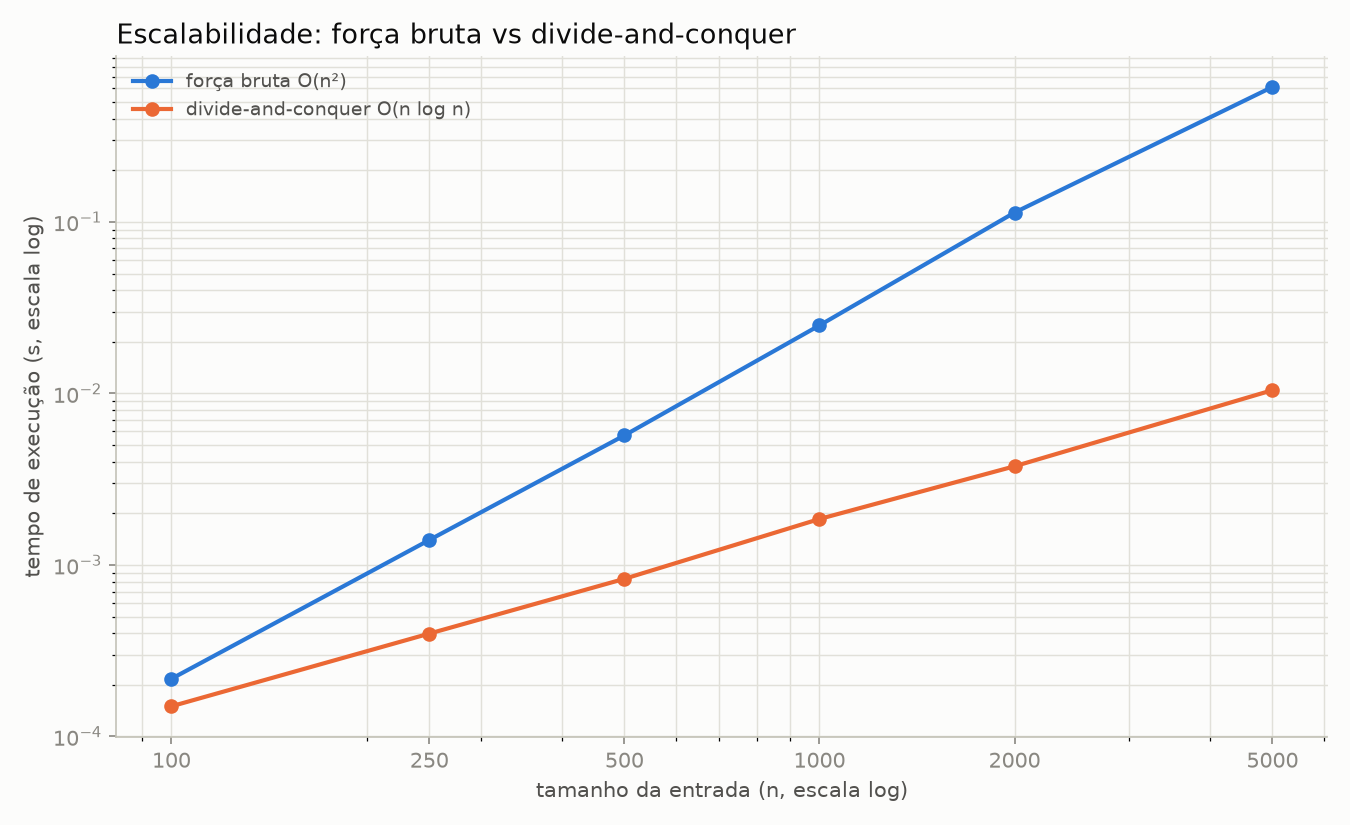
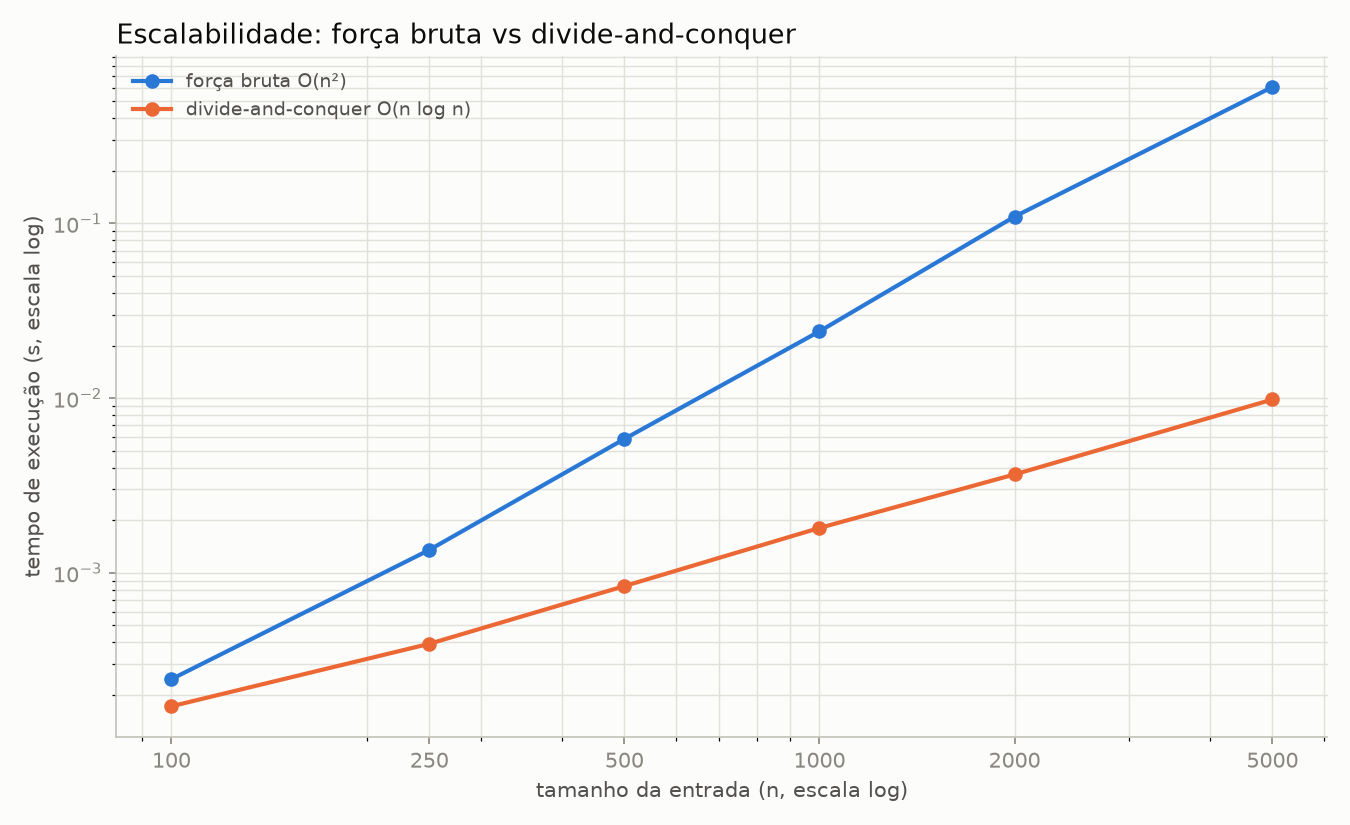
revisando docstrings, testando tudo e reexecutando o notebook

diff --git a/tests/test_questao2.py b/tests/test_questao2.py
@@ -1,0 +1,161 @@
+"""
+Testes da Questao 2 (gestao de consumo de energia): criticidade,
+estruturas de dados, forca bruta e divide-and-conquer.
+
+Usa leituras pequenas e feitas a mao pra cada resultado esperado ser
+facil de conferir na mao -- o dataset real (data/problema2.csv) so
+entra no teste de integracao no final, pra garantir que os dois
+algoritmos continuam concordando nele.
+"""
+
+import random
+
+import pytest
+
+from src.brute_force import buscar_intervalo_critico_forca_bruta
+from src.criticidade import calcular_criticidade
+from src.divide_conquer import buscar_intervalo_critico_divide_conquer
+from src.estruturas import (
+    agrupar_por_regiao,
+    agrupar_por_regiao_e_hora,
+    carregar_leituras,
+    maiores_picos_de_consumo,
+    regioes_existentes,
+)
+
+
+def leitura(consumo, capacidade=400.0, prioridade=1, regiao="Norte", timestamp="2025-01-01 00:00:00"):
+    return {
+        "timestamp": timestamp,
+        "regiao": regiao,
+        "consumo": consumo,
+        "capacidade_disponivel": capacidade,
+        "prioridade": prioridade,
+        "custo": 0.0,
+    }
+
+
+def leitura_com_criticidade(score, timestamp="2025-01-01 00:00:00"):
+    """
+    Monta uma leitura cuja criticidade da exatamente 'score'. Usa uma
+    capacidade bem alta (1000) pra nunca estourar -- assim
+    consumo_relativo = consumo - 750 e a penalidade de excesso fica
+    sempre zero, entao criticidade = consumo - 750. Basta escolher
+    consumo = score + 750.
+    """
+    return leitura(consumo=score + 750.0, capacidade=1000.0, prioridade=1, timestamp=timestamp)
+
+
+class TestCriticidade:
+    def test_leitura_dentro_do_limiar_seguro_fica_negativa(self):
+        # 200 de consumo numa capacidade de 400: bem abaixo dos 75% (300)
+        l = leitura(consumo=200.0, capacidade=400.0)
+        assert calcular_criticidade(l) < 0
+
+    def test_leitura_passando_da_capacidade_fica_positiva(self):
+        l = leitura(consumo=500.0, capacidade=400.0)
+        assert calcular_criticidade(l) > 0
+
+    def test_prioridade_maior_aumenta_a_penalidade_quando_ha_excesso(self):
+        prioridade_baixa = leitura(consumo=500.0, capacidade=400.0, prioridade=1)
+        prioridade_alta = leitura(consumo=500.0, capacidade=400.0, prioridade=3)
+        assert calcular_criticidade(prioridade_alta) > calcular_criticidade(prioridade_baixa)
+
+    def test_prioridade_nao_muda_nada_sem_excesso(self):
+        # a prioridade so multiplica a penalidade de excesso; sem excesso, ela e zero dos dois jeitos
+        prioridade_baixa = leitura(consumo=200.0, capacidade=400.0, prioridade=1)
+        prioridade_alta = leitura(consumo=200.0, capacidade=400.0, prioridade=3)
+        assert calcular_criticidade(prioridade_baixa) == calcular_criticidade(prioridade_alta)
+
+
+class TestEstruturas:
+    def _leituras_de_exemplo(self):
+        return [
+            leitura(300, 400, 1, "Norte", "2025-01-01 00:00:00"),
+            leitura(200, 300, 2, "Sul", "2025-01-01 00:00:00"),
+            leitura(500, 400, 1, "Norte", "2025-01-01 01:00:00"),
+        ]
+
+    def test_regioes_existentes_sem_repeticao(self):
+        assert regioes_existentes(self._leituras_de_exemplo()) == {"Norte", "Sul"}
+
+    def test_agrupar_por_regiao(self):
+        agrupado = agrupar_por_regiao(self._leituras_de_exemplo())
+        assert len(agrupado["Norte"]) == 2
+        assert len(agrupado["Sul"]) == 1
+
+    def test_agrupar_por_regiao_e_hora(self):
+        agrupado = agrupar_por_regiao_e_hora(self._leituras_de_exemplo())
+        assert agrupado[("Norte", 0)][0]["consumo"] == 300
+        assert agrupado[("Norte", 1)][0]["consumo"] == 500
+
+    def test_maiores_picos_de_consumo(self):
+        picos = maiores_picos_de_consumo(self._leituras_de_exemplo(), 2)
+        assert [p["consumo"] for p in picos] == [500, 300]
+
+    def test_maiores_picos_de_consumo_quantidade_invalida(self):
+        with pytest.raises(ValueError):
+            maiores_picos_de_consumo(self._leituras_de_exemplo(), 0)
+
+    def test_carregar_leituras_arquivo_inexistente(self):
+        with pytest.raises(FileNotFoundError):
+            carregar_leituras("data/isso_nao_existe.csv")
+
+
+# scores classicos de exemplo (subarray de soma maxima): a resposta
+# certa e o trecho [3,6] = 4-1+2+1 = 6
+SCORES_DE_EXEMPLO = [-2, 1, -3, 4, -1, 2, 1, -5, 4]
+
+
+class TestForcaBrutaEDivideConquer:
+    def _leituras_de_exemplo(self):
+        return [leitura_com_criticidade(score) for score in SCORES_DE_EXEMPLO]
+
+    @pytest.mark.parametrize(
+        "buscar_intervalo_critico",
+        [buscar_intervalo_critico_forca_bruta, buscar_intervalo_critico_divide_conquer],
+    )
+    def test_acha_o_intervalo_critico_certo(self, buscar_intervalo_critico):
+        inicio, fim, criticidade = buscar_intervalo_critico(self._leituras_de_exemplo())
+        assert (inicio, fim) == (3, 6)
+        assert criticidade == pytest.approx(6.0)
+
+    @pytest.mark.parametrize(
+        "buscar_intervalo_critico",
+        [buscar_intervalo_critico_forca_bruta, buscar_intervalo_critico_divide_conquer],
+    )
+    def test_lista_de_um_elemento(self, buscar_intervalo_critico):
+        inicio, fim, criticidade = buscar_intervalo_critico([leitura_com_criticidade(-5)])
+        assert (inicio, fim) == (0, 0)
+        assert criticidade == pytest.approx(-5.0)
+
+    @pytest.mark.parametrize(
+        "buscar_intervalo_critico",
+        [buscar_intervalo_critico_forca_bruta, buscar_intervalo_critico_divide_conquer],
+    )
+    def test_lista_vazia_levanta_erro(self, buscar_intervalo_critico):
+        with pytest.raises(ValueError):
+            buscar_intervalo_critico([])
+
+    def test_forca_bruta_e_divide_conquer_concordam_em_casos_aleatorios(self):
+        random.seed(7)
+        for _ in range(20):
+            tamanho = random.randint(1, 40)
+            scores = [random.uniform(-50, 50) for _ in range(tamanho)]
+            leituras = [leitura_com_criticidade(score) for score in scores]
+
+            resultado_fb = buscar_intervalo_critico_forca_bruta(leituras)
+            resultado_dc = buscar_intervalo_critico_divide_conquer(leituras)
+
+            assert resultado_fb[2] == pytest.approx(resultado_dc[2])
+
+
+class TestIntegracaoComODatasetReal:
+    def test_forca_bruta_e_divide_conquer_concordam_no_dataset_real(self):
+        leituras = carregar_leituras()
+
+        resultado_fb = buscar_intervalo_critico_forca_bruta(leituras)
+        resultado_dc = buscar_intervalo_critico_divide_conquer(leituras)
+
+        assert resultado_fb[2] == pytest.approx(resultado_dc[2])
+        assert (resultado_fb[0], resultado_fb[1]) == (resultado_dc[0], resultado_dc[1])

diff --git a/src/gerar_dataset.py b/src/gerar_dataset.py
@@ -1,6 +1,5 @@
 """
 Cria o dataset sintetico da Questao 2 (gestao de consumo de energia).
-
 """
 
 import csv
@@ -69,8 +68,10 @@ def esta_em_horario_de_pico(hora: int) -> bool:
 def gerar_consumo(regiao: str, hora: int) -> float:
     """
     Consumo = base da regiao + acrescimo em horario de pico + ruido
-    aleatorio. De vez em quando ultrapassa a capacidade disponivel de
-    proposito, para a funcao de criticidade ter excessos para penalizar.
+    aleatorio. A capacidade disponivel fica bem acima do pico normal
+    (ver CAPACIDADE_DISPONIVEL), entao esse consumo quase nunca passa
+    dela sozinho -- o excesso de verdade vem do evento critico
+    injetado (esta_no_evento_critico), nao do ruido aleatorio.
     """
     base = CONSUMO_BASE[regiao]  # consumo medio da regiao
     acrescimo_pico = base * 0.35 if esta_em_horario_de_pico(hora) else 0.0  # 35% a mais no pico
@@ -110,7 +111,7 @@ def gerar_linhas() -> list[dict]:
 
 
 def main() -> None:
-    random.seed(SEED)  # fixa a seed antes de gerar, para odataset ser sempre igual
+    random.seed(SEED)  # fixa a seed antes de gerar, para o dataset ser sempre igual
     linhas: list[dict] = gerar_linhas()
 
     caminho_saida: str = "data/problema2.csv"

diff --git a/src/experimento_escalabilidade.py b/src/experimento_escalabilidade.py
@@ -41,6 +41,7 @@ def gerar_leituras_aleatorias(n: int) -> list[dict]:
 
 
 def medir_tempo_medio(funcao, leituras: list[dict]) -> float:
+    """Roda 'funcao' REPETICOES vezes e devolve a media do tempo, em segundos."""
     tempos = []
     for _ in range(REPETICOES):
         inicio = time.perf_counter()
@@ -81,6 +82,7 @@ def operacoes_divide_conquer(n: int) -> int:
 
 
 def rodar_experimento() -> list[dict]:
+    """Roda forca bruta e divide-and-conquer pra cada tamanho em TAMANHOS e junta os resultados."""
     random.seed(SEED)
     resultados = []
 
@@ -110,6 +112,7 @@ def rodar_experimento() -> list[dict]:
 
 
 def salvar_resultados(resultados: list[dict], caminho_csv: str = "data/escalabilidade.csv") -> None:
+    """Escreve os resultados de rodar_experimento() num csv, uma linha por tamanho de entrada."""
     campos = list(resultados[0].keys())
     with open(caminho_csv, "w", newline="", encoding="utf-8") as arquivo:
         escritor = csv.DictWriter(arquivo, fieldnames=campos)

diff --git a/src/grafico_escalabilidade.py b/src/grafico_escalabilidade.py
@@ -39,6 +39,7 @@ INTERPRETACAO = (
 
 
 def carregar_resultados(caminho_csv: str = "data/escalabilidade.csv") -> list[dict]:
+    """Le o csv gerado por src/experimento_escalabilidade.py."""
     with open(caminho_csv, newline="", encoding="utf-8") as arquivo:
         leitor = csv.DictReader(arquivo)
         return [
@@ -52,6 +53,7 @@ def carregar_resultados(caminho_csv: str = "data/escalabilidade.csv") -> list[di
 
 
 def gerar_figura(caminho_saida: str = "figures/questao2/escalabilidade.png") -> None:
+    """Plota tempo x tamanho de entrada (log-log) pros dois algoritmos e salva em caminho_saida."""
     resultados = carregar_resultados()
     tamanhos = [linha["n"] for linha in resultados]
     tempos_fb = [linha["tempo_forca_bruta_s"] for linha in resultados]

diff --git a/src/grafico_arvore_decomposicao.py b/src/grafico_arvore_decomposicao.py
@@ -125,6 +125,7 @@ def _desenhar_no(eixo, no: No, leituras: list[dict], caminho_vencedor: set[int])
 
 
 def gerar_figura(caminho_saida: str = "figures/questao2/arvore_decomposicao.png") -> None:
+    """Monta a arvore em cima do intervalo critico real e salva a figura em caminho_saida."""
     leituras = carregar_leituras()
     trecho = leituras[INDICE_INICIO_REAL : INDICE_FIM_REAL + 1]
     scores = [calcular_criticidade(leitura) for leitura in trecho]

diff --git a/src/divide_conquer.py b/src/divide_conquer.py
@@ -1,7 +1,6 @@
 """
 Busca o intervalo continuo de maior criticidade acumulada por
-divide-and-conquer (Parte C da Questao 2) -- o classico "subarray de
-soma maxima" adaptado pra usar a criticidade em vez da soma pura.
+divide-and-conquer (Parte C da Questao 2).
 """
 
 from src.criticidade import calcular_criticidade

diff --git a/src/estruturas.py b/src/estruturas.py
@@ -1,6 +1,5 @@
 """
 Estruturas de dados da Questao 2 (gestao de consumo de energia).
-
 """
 import csv
 import heapq
